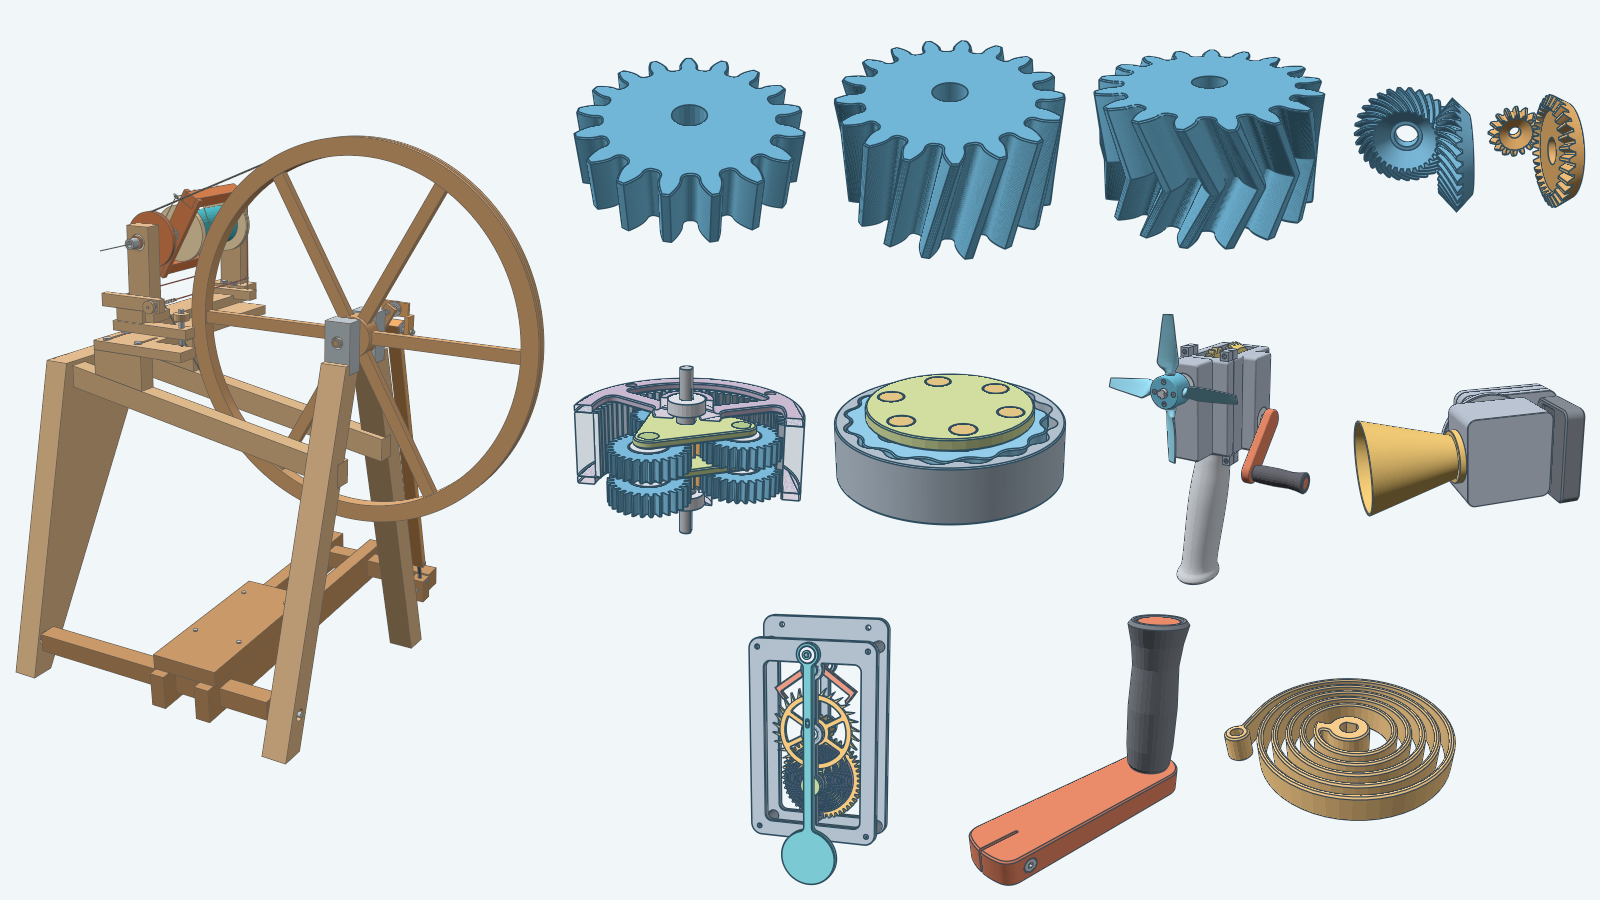
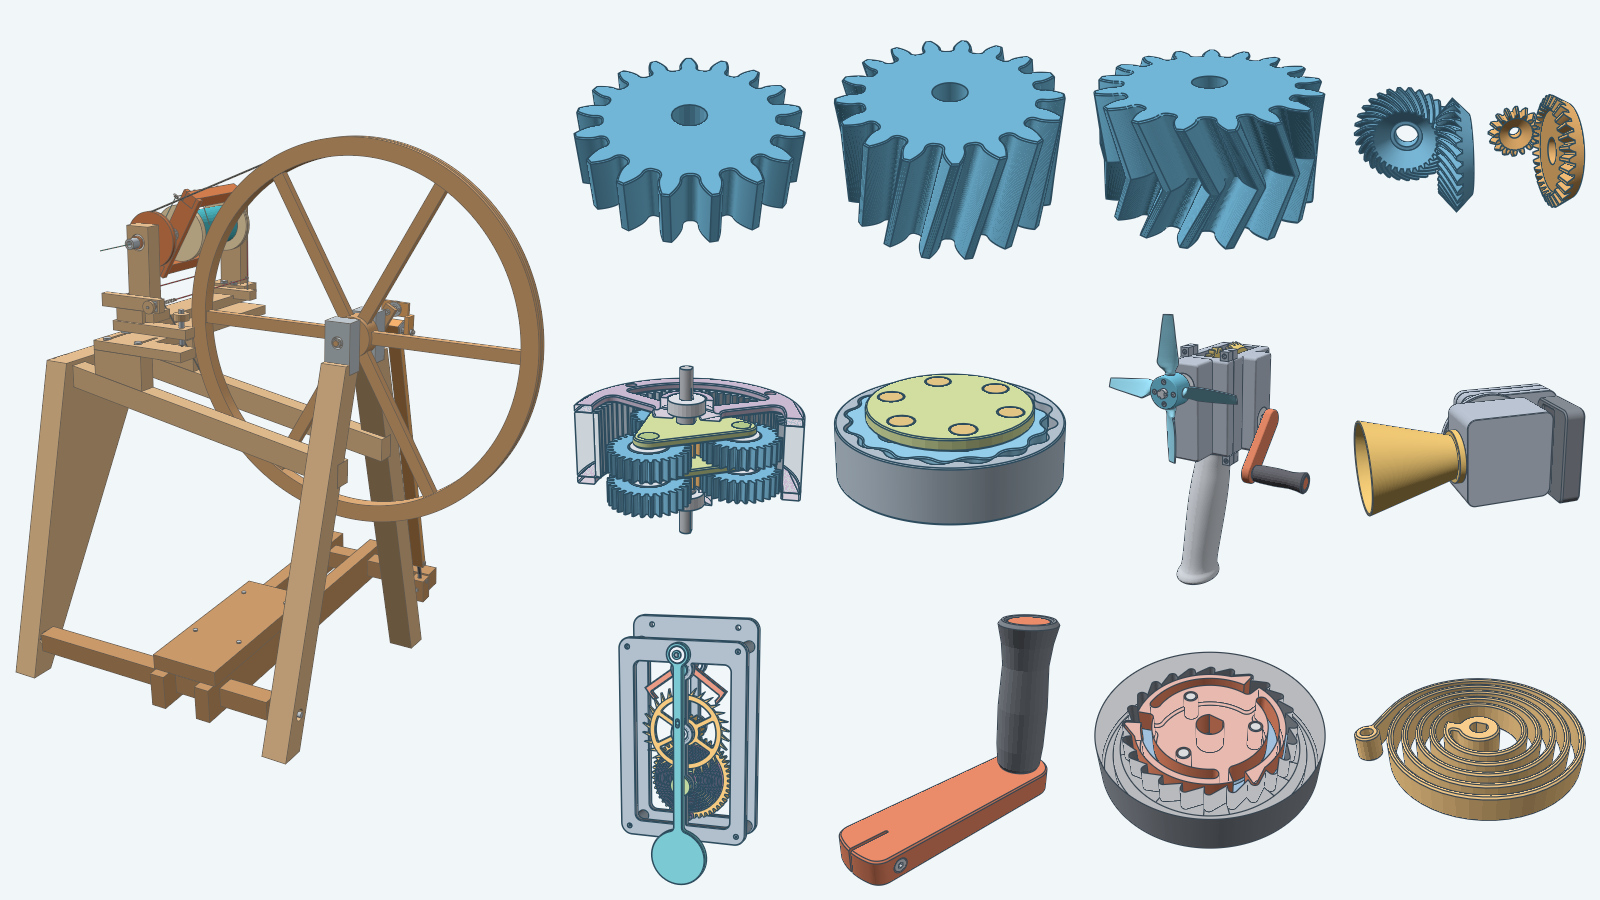
add one-way clutch to the gallery image and indexes

Changed region(s): [[0.375, 0.6844, 1.0, 0.9956]]

diff --git a/models/README.md b/models/README.md
@@ -13,6 +13,7 @@
 | [Herringbone gear](herringbonegear/) | <img src="herringbonegear/images/index.png" alt="Bored herringbone gear" width="240"> | An involute gear with mirrored tooth slopes that meet at its midpoint. | Adjustable |
 | [M2 bolt](m2bolt/) | <img src="m2bolt/images/index.png" alt="M2 socket head cap screw" width="240"> | An M2 socket head cap screw with a hex socket and a length you choose. | Nominal |
 | [M2 nut](m2nut/) | <img src="m2nut/images/index.png" alt="M2 hex nut" width="240"> | An M2 hex nut that fits the M2 bolt. | Nominal |
+| [One-way clutch](onewayclutch/) | <img src="onewayclutch/images/index.png" alt="One-way clutch cut open to show three pawl heads in the ring teeth" width="240"> | A printed one-way clutch for a D-flat shaft: a hub with three flexing pawls, a 42 mm ring with 24 internal teeth, a back plate and a cover, clamped by three M2 x 16 bolts and nuts, with the freewheel direction and the shaft preset (605ZZ, 608ZZ, 608ZZ-gearbox) as inputs. | Mixed |
 | [Pin ring](pinring/) | <img src="pinring/images/index.png" alt="Flat pin ring" width="240"> | An assembly aid (jig): a plain flat ring that sits on a pin to hold it in place while you assemble. | Adjustable |
 | [Planetary gearbox](planetarygearbox/) | <img src="planetarygearbox/images/index.png" alt="Cut-open two-stage planetary gearbox" width="240"> | A stackable planetary speed reducer: a sun gear, three planets and a carrier inside a fixed internal ring gear. | Mixed |
 | [Screw gear](screwgear/) | <img src="screwgear/images/index.png" alt="Two twisted ribbon gears in a sleeve" width="240"> | Two twisted toothed ribbons that run through a windowed sleeve and move one another one tooth for one tooth. | Adjustable |

diff --git a/README.md b/README.md
@@ -1,6 +1,6 @@
 # decad gallery
 
-![A spinning wheel, a hand-crank fan, a hand-crank siren, a Graham escapement, a crank handle and a spiral spring beside spur, helical, herringbone, planetary, cycloidal and bevel gears](docs/images/gallery.png)
+![A spinning wheel, a hand-crank fan, a hand-crank siren, a Graham escapement, a crank handle, a one-way clutch and a spiral spring beside spur, helical, herringbone, planetary, cycloidal and bevel gears](docs/images/gallery.png)
 
 A gallery of parametric 3D shapes, patterns, and assemblies built with
 [decad](https://github.com/lestrrat-3d/decad). Each model is a solid body whose dimensions come from
@@ -15,7 +15,8 @@ a [hand-crank fan](models/handcrankfan/) driven through spur and bevel gears,
 a [hand-crank siren](models/handcranksiren/) with a two-stage spur step-up,
 a [Graham escapement](models/escapement/) with a spiral mainspring, a crutch and a pendulum, 608-2RS and 605ZZ bearing
 envelopes, a [spiral spring](models/spiralspring/) with a D-bore hub and an anchor eye, a [crank handle](models/crankhandle/)
-with a handle that turns on its pin, and a [pin ring](models/pinring/) assembly aid that holds a pin in place during assembly.
+with a handle that turns on its pin, a [one-way clutch](models/onewayclutch/) with three flexing pawls for a D-flat shaft,
+and a [pin ring](models/pinring/) assembly aid that holds a pin in place during assembly.
 Each model's page shows rendered images and lists the inputs you can change.
 
 ## For developers
